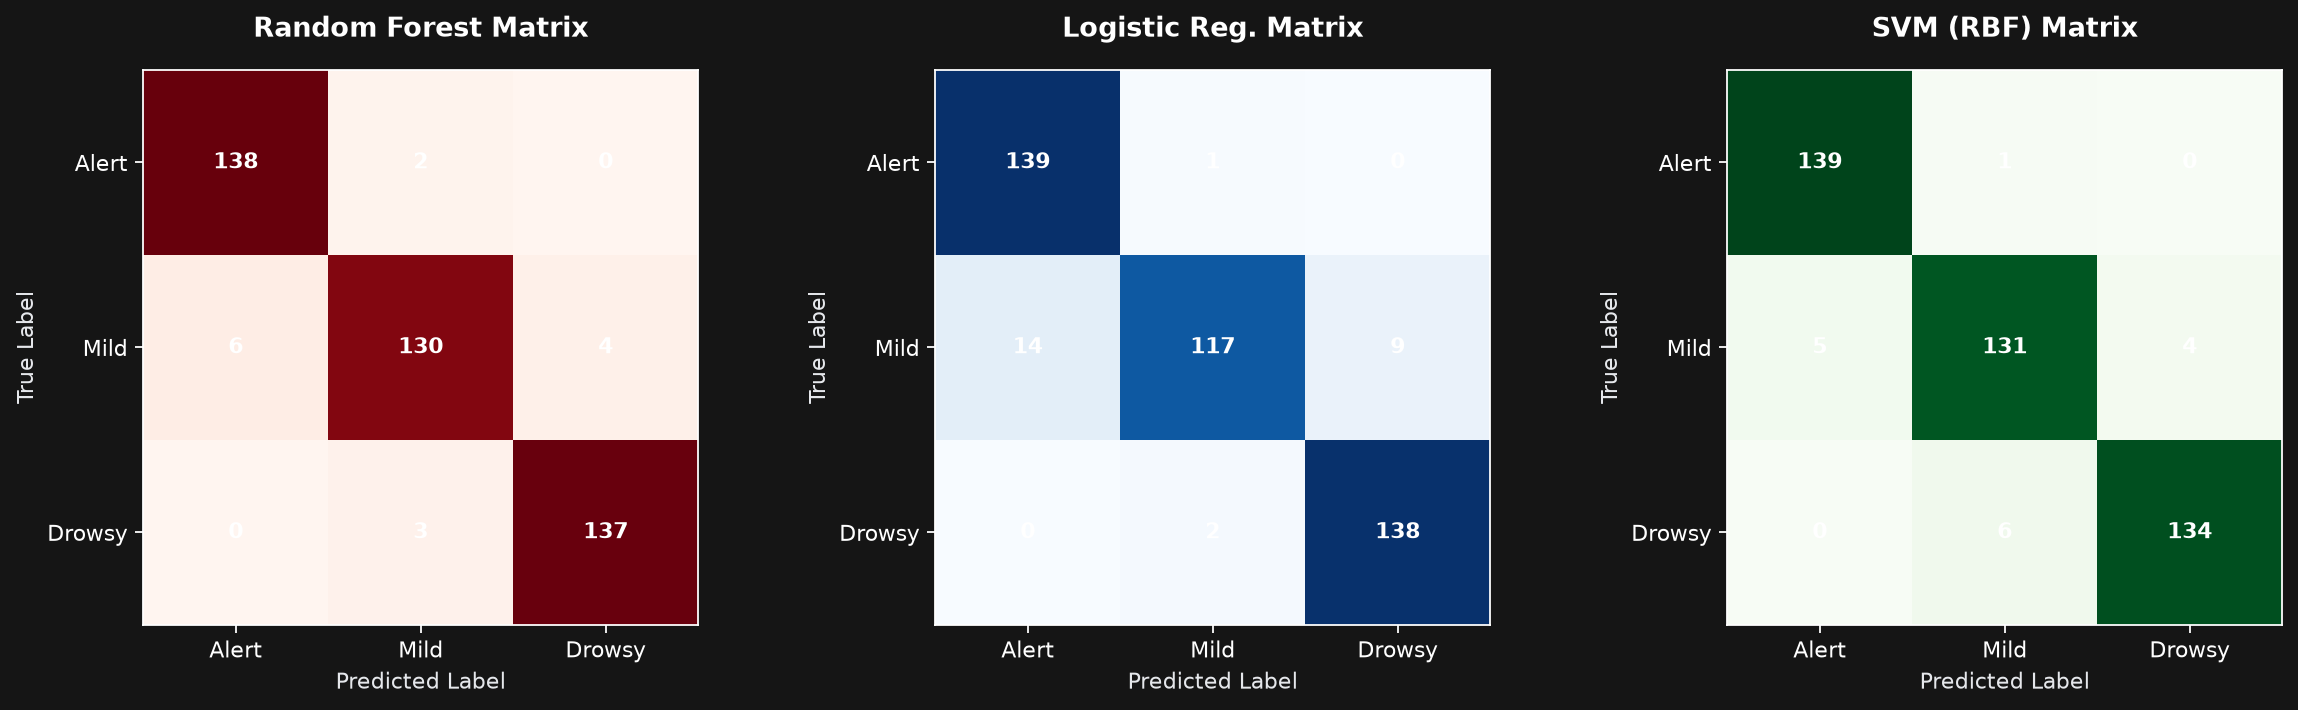
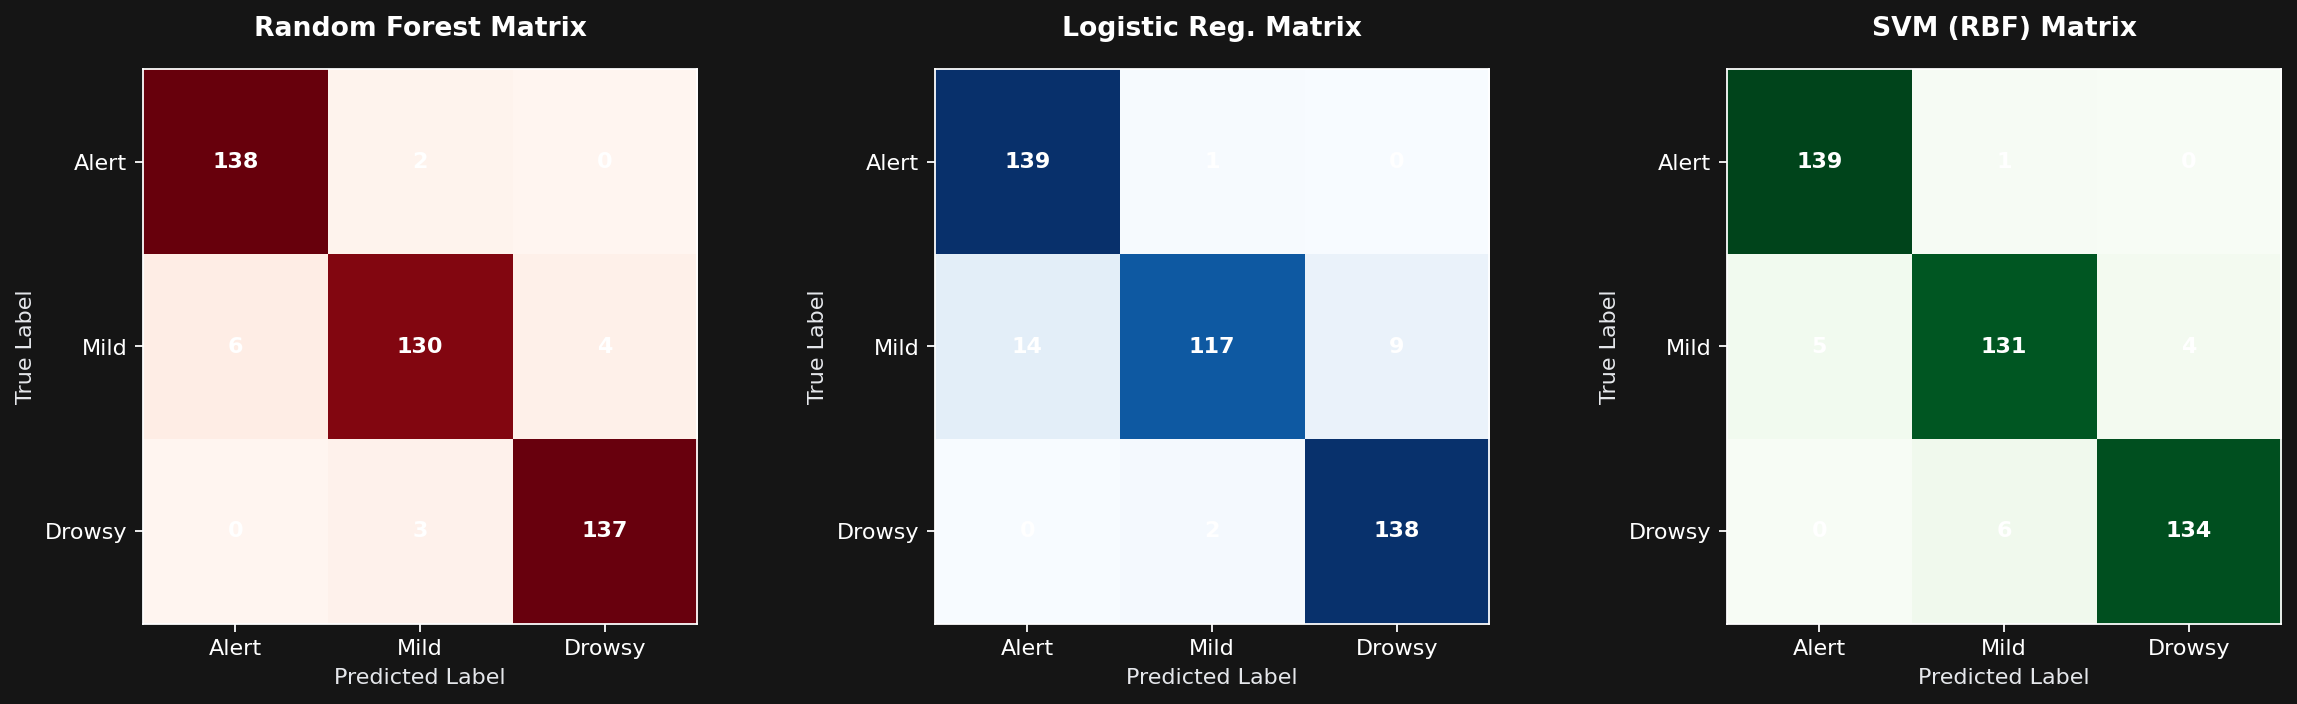
UI updates for better visibility

diff --git a/app.py b/app.py
@@ -35,6 +35,23 @@ section[data-testid="stSidebar"] {
     background: #111114;
     border-right: 1px solid #292929;
 }
+/* Force all sidebar text, headers, and labels to be bright */
+section[data-testid="stSidebar"] h2, 
+section[data-testid="stSidebar"] .stMarkdown p,
+section[data-testid="stSidebar"] span,
+section[data-testid="stSidebar"] label {
+    color: #F3F4F6 !important;
+}
+
+/* FORCE ALL MAIN HEADINGS & SUB HEADINGS TO BE BRIGHT WHITE */
+h1, h2, h3, h4, h5, h6, 
+.stMarkdown h1, .stMarkdown h2, .stMarkdown h3, .stMarkdown h4 {
+    color: #FFFFFF !important;
+}
+p, span, label {
+    color: #E4E4E7;
+}
+
 .header-box {
     background: linear-gradient(110deg, #171717, #101010);
     border: 1px solid #303030;
@@ -120,6 +137,16 @@ hr {
     border-color: #303030;
 }
 
+/* Fix Tab Text Visibility */
+[data-baseweb="tab"] p, [data-baseweb="tab"] span {
+    color: #D4D4D8 !important;
+    font-weight: 600 !important;
+}
+[data-baseweb="tab"][aria-selected="true"] span, [data-baseweb="tab"][aria-selected="true"] p {
+    color: #EF4444 !important;
+    font-weight: 700 !important;
+}
+
 /* Metric Display Formatting Rules */
 div[data-testid="stMetricValue"] > div {
     font-size: 1.22rem !important;
@@ -136,7 +163,6 @@ div[data-testid="stMetricLabel"] > div {
 """,
     unsafe_allow_html=True,
 )
-
 # Header Banner
 st.markdown(
     """
@@ -280,7 +306,7 @@ with tab_metrics:
     st.markdown("---")
     st.markdown("### Comparative Performance Charts")
     if os.path.exists("model_comparison_graphs.png"):
-        st.image("model_comparison_graphs.png", use_container_width=True)
+        st.image("model_comparison_graphs.png")
     else:
         st.info("Run train_model.py to generate comparative graphs.")
 
@@ -290,7 +316,7 @@ with tab_matrix:
     st.markdown("Detailed true label vs. predicted label comparisons across all three trained algorithms.")
 
     if os.path.exists("confusion_matrices_comparison.png"):
-        st.image("confusion_matrices_comparison.png", use_container_width=True)
+        st.image("confusion_matrices_comparison.png")
     else:
         st.info("Run train_model.py to generate confusion matrices.")
 
@@ -413,7 +439,7 @@ if run_app:
                     mar_bar.empty()
 
                 frame_rgb = cv2.cvtColor(frame, cv2.COLOR_BGR2RGB)
-                video_placeholder.image(frame_rgb, channels="RGB", use_container_width=True)
+                video_placeholder.image(frame_rgb, channels="RGB")
 
         finally:
             cap.release()
